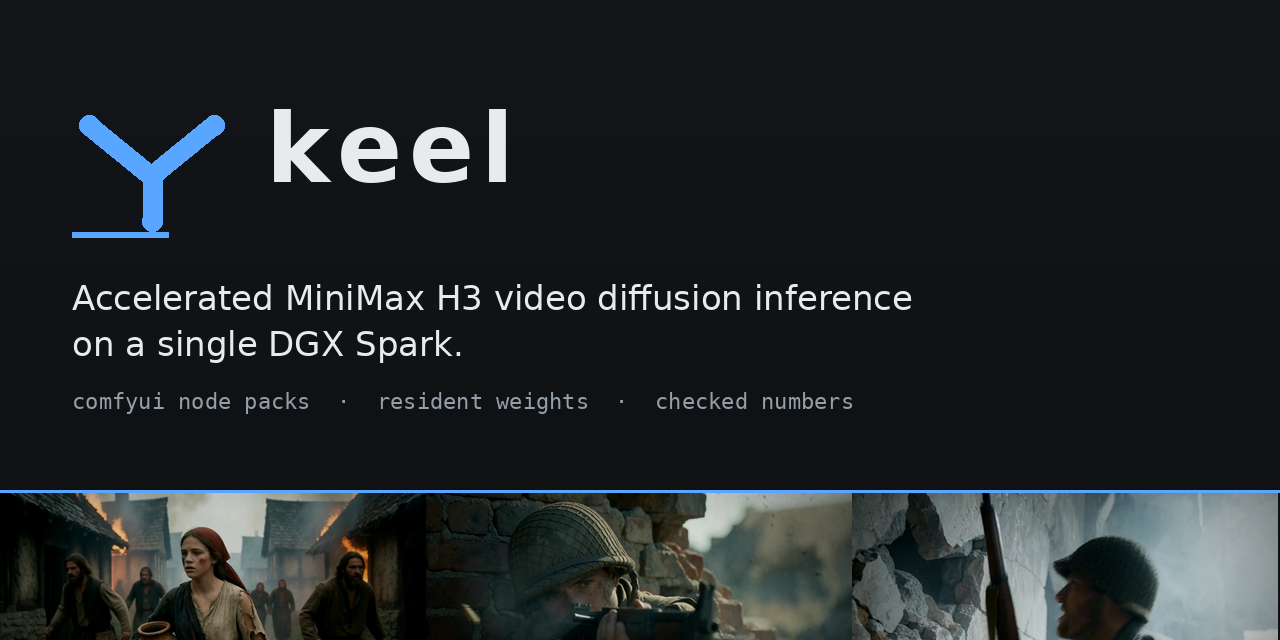
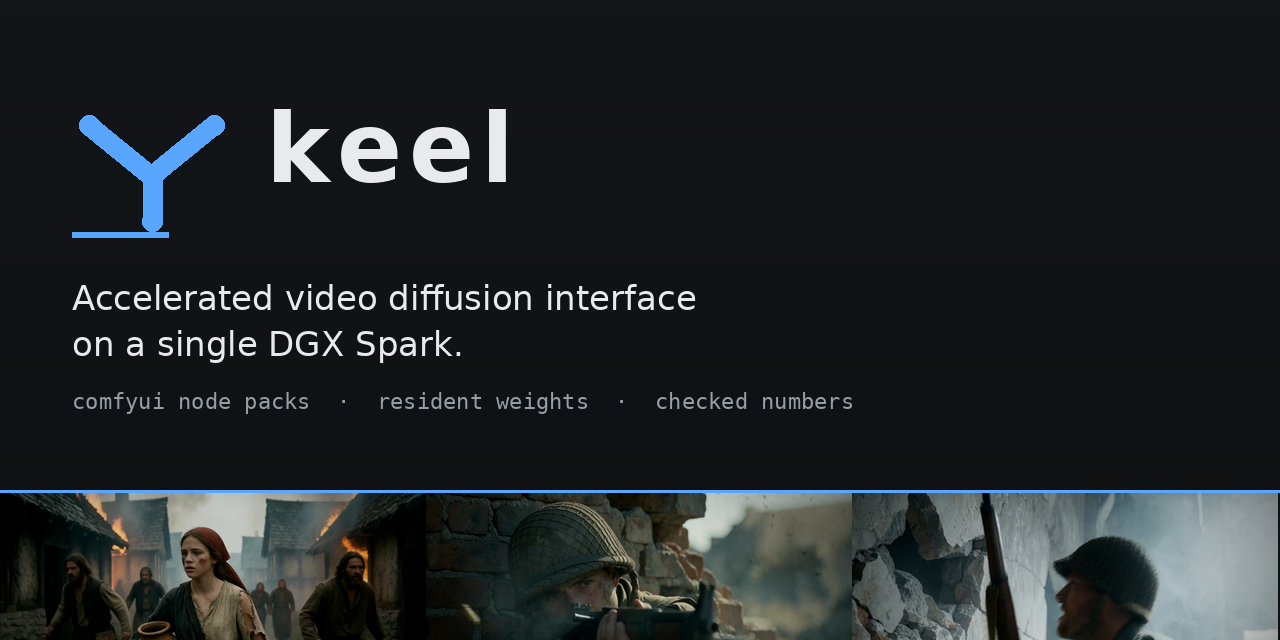
the headline names the capability, not one model
Accelerated video diffusion interface on a single DGX Spark. The engine
can host more models over time, so the headline says what the engine is
rather than which model it runs today. MiniMax H3 becomes the first
supported model: its coverage, benchmarks, techniques, clips and recipes
stay in the body, unchanged.

Applied to the README headline and description, the citation title, the
repository description, the release title and body, the demo title cards
and the social preview.

Two statements went with it, because the Gate 6.1 render made them
stale: the Sol-Attn kernel and the batched VAE decode are installed in
this stack and active in the shipped workflow, so running the published
1.54x ladder here is the next run rather than installing those two
components first.

Changed region(s): [[0.2188, 0.4375, 0.7188, 0.5]]

diff --git a/scripts/make_demo.py b/scripts/make_demo.py
@@ -261,9 +261,9 @@ def build_storyboard(assets: pathlib.Path) -> list[dict]:
             "hold": 7.0,
             "image": card(
                 "KEEL",
-                "Accelerated MiniMax H3 video diffusion inference on a single DGX Spark.",
+                "Accelerated video diffusion interface on a single DGX Spark.",
                 [
-                    ("An efficiency-oriented inference stack for MiniMax H3 —", MUTED),
+                    ("An efficiency-oriented inference stack for video diffusion —", MUTED),
                     ("installable ComfyUI node packs, a resident-weight recipe,", MUTED),
                     ("and a receipt behind every number.", MUTED),
                     ("", MUTED),
@@ -286,16 +286,17 @@ def build_storyboard(assets: pathlib.Path) -> list[dict]:
                 "A product, and what comes next",
                 [
                     ("is", GREEN),
-                    ("  a way to run MiniMax H3 - a 33B joint video-and-audio model - on one", INK),
-                    ("  128 GB DGX Spark, for people who want to render H3 themselves.", INK),
+                    ("  an interface for accelerated video diffusion on one 128 GB DGX Spark,", INK),
+                    ("  with MiniMax H3 - a 33B joint video-and-audio model - as the first", INK),
+                    ("  model it runs, for people who want to render it themselves.", INK),
                     ("", MUTED),
                     ("  the ComfyUI side of the problem NVIDIA's Sol-Engine solves, as an", INK),
                     ("  independent implementation: node packs, resident weights, the turbo", INK),
                     ("  adapter shelf, a seed-matched A/B, and receipts behind every number.", INK),
                     ("", MUTED),
                     ("next", AMBER),
-                    ("  the Sol-Attn kernel and the batched VAE decode come into this stack,", INK),
-                    ("  and the published 1.54x ladder gets a run and a receipt here.", INK),
+                    ("  the published 1.54x ladder gets a run and a receipt here, with the", INK),
+                    ("  Sol-Attn kernel and the batched VAE decode both active.", INK),
                 ],
                 "KEEL  ·  the named technique: TRIM",
                 accent=BLUE,
@@ -687,7 +688,7 @@ def build_storyboard(assets: pathlib.Path) -> list[dict]:
             "hold": 11.0,
             "image": card(
                 "KEEL",
-                "Accelerated MiniMax H3 video diffusion inference on a single DGX Spark.",
+                "Accelerated video diffusion interface on a single DGX Spark.",
                 [
                     ("the stack       three vendored node packs, credited to their authors", INK),
                     ("the technique   TRIM - residency, the convert path, step distillation,", INK),
@@ -696,7 +697,7 @@ def build_storyboard(assets: pathlib.Path) -> list[dict]:
                     ("", MUTED),
                     ("ours:          1.44x at 8 steps, 1.17x at 16 steps, 3.16x on the turbo LoRA", INK),
                     ("not ours:      the published ladder, and NVIDIA's 3.92x. Both say so.", AMBER),
-                    ("not done:      the ladder's own two components, never installed here.", AMBER),
+                    ("next:          the published 1.54x ladder, on this stack, both components active.", AMBER),
                 ],
                 "sandeep-alluru/minimax-h3-local-engine  ·  docs, recipes, receipts and clips",
                 accent=GREEN,

diff --git a/scripts/make_assets.py b/scripts/make_assets.py
@@ -44,7 +44,7 @@ SANS = "/usr/share/fonts/truetype/dejavu/DejaVuSans.ttf"
 MONO = "/usr/share/fonts/truetype/dejavu/DejaVuSansMono.ttf"
 
 WORDMARK = "keel"
-HEADLINE = "Accelerated MiniMax H3 video diffusion inference on a single DGX Spark."
+HEADLINE = "Accelerated video diffusion interface on a single DGX Spark."
 
 # The mark: a hull meeting a keel. Two swept strokes for the hull, one straight stroke for the
 # spine below the vertex. Drawn in a 120-unit box and scaled wherever it is placed.
@@ -190,7 +190,7 @@ def make_social_preview(path: pathlib.Path, strip: list[pathlib.Path] | None) ->
     head_f = font(SANS, 34)
     y = rule_y + 46
     for line in (
-        "Accelerated MiniMax H3 video diffusion inference",
+        "Accelerated video diffusion interface",
         "on a single DGX Spark.",
     ):
         draw.text((72, y), line, font=head_f, fill=PAPER)

diff --git a/README.md b/README.md
@@ -2,9 +2,9 @@
   <img src="assets/keel-logo.svg" width="420" alt="Keel" />
 </p>
 
-<p align="center"><b>Accelerated MiniMax H3 video diffusion inference on a single DGX Spark.</b></p>
+<p align="center"><b>Accelerated video diffusion interface on a single DGX Spark.</b></p>
 
-<p align="center">For people who render MiniMax H3 themselves on one 128 GB box: installable ComfyUI node packs, a weight set that fits in unified memory, and a receipt behind every number.</p>
+<p align="center">For people who run video diffusion on one 128 GB box: installable ComfyUI node packs, a weight set that fits in unified memory, and a receipt behind every number — with MiniMax H3 as the first model it runs.</p>
 
 <p align="center">
   <a href="docs/deployment-guide.md">Docs</a> ·
@@ -64,10 +64,11 @@ figures, the ComfyUI-Sol-H3 A/B, and the byte-exact residency ladder — is in
 
 ## What Keel is
 
-**Keel is** a way to run MiniMax H3 — a 33B joint video-and-audio diffusion model — on one 128 GB
-DGX Spark. It ships three installable ComfyUI node packs, the weight set that actually fits in
-unified memory, a seed-matched A/B method so you can measure the difference on your own box, and
-a checker that stops the build if a published number stops matching its receipt.
+**Keel is** an interface for accelerated video diffusion on one 128 GB DGX Spark. MiniMax H3 — a 33B
+joint video-and-audio diffusion model — is the first model it runs. It ships three installable
+ComfyUI node packs, the weight set that actually fits in unified memory, a seed-matched A/B method
+so you can measure the difference on your own box, and a checker that stops the build if a
+published number stops matching its receipt.
 
 Keel is the ComfyUI side of the same problem NVIDIA's Sol-Engine solves. Sol-Engine is their
 inference codebase with their own kernels, and `Sol-Attn` is their name for their method. Keel is
@@ -76,8 +77,9 @@ the step-distillation adapters, and the discipline around the numbers. The publi
 quoted above belongs to the community Sol-Engine port, and it is attributed wherever it appears.
 
 The largest first-party speedup below comes from the 4-step turbo LoRA: a step-count reduction as
-much as an acceleration. Bringing the Sol-Attn kernel and the batched VAE decode into this stack
-is the next run, and those two components are what the published 1.54× ladder depends on.
+much as an acceleration. The Sol-Attn kernel and the batched VAE decode are installed in this
+stack and active in the shipped workflow, and running the published 1.54× ladder here — with both
+of them in — is the next run.
 
 ---
 
@@ -103,6 +105,10 @@ is the next run, and those two components are what the published 1.54× ladder d
 ---
 
 ## Install
+
+This is the MiniMax H3 model coverage — the first model the interface runs. The node packs, the
+resident-weight recipe and the measurement method are the model's, so a second model is a weight
+set and a workflow away from the same stack.
 
 **Requirements**
 
@@ -197,8 +203,8 @@ when you want a draft and you keep twenty when you want the quality. And when yo
 
 ### What's next
 
-* **Install the Sol-Attn kernel and the batched VAE decode**, then run the published 1.54× ladder
-  on this stack and file the receipt beside theirs.
+* **Run the published 1.54× ladder on this stack**, with the Sol-Attn kernel and the batched VAE
+  decode active, and file the receipt beside theirs.
 * **Separate Sage attention from FirstBlockCache** inside the accelerated arms, so each technique
   in the table carries its own number rather than sharing one.
 * **Give Trim-INT8 its own timing**, so all six techniques have a measured effect.
@@ -367,8 +373,9 @@ Their respective upstream licences and attribution notices apply.
 
 ```bibtex
 @misc{keel,
-  title        = {Keel: accelerated MiniMax H3 video diffusion inference on a single DGX Spark},
+  title        = {Keel: accelerated video diffusion interface on a single DGX Spark},
   howpublished = {\url{https://github.com/sandeep-alluru/minimax-h3-local-engine}},
-  note         = {ComfyUI node packs, resident weight set, and receipt-backed measurements}
+  note         = {ComfyUI node packs, resident weight set, and receipt-backed measurements.
+                 MiniMax H3 is the first model it runs.}
 }
 ```

diff --git a/receipts/our-acceleration-ab.md b/receipts/our-acceleration-ab.md
@@ -57,9 +57,12 @@ sampling** at the shot's own geometry and seed.
 So the honest claim is "the acceleration arms as configured". The attribution between Sage and
 FirstBlockCache inside those arms is unresolved, and this receipt leaves it unresolved.
 
-**The Sol-Attn kernel was never installed on this box, and the batched VAE decode node was never
-enabled in any of these runs.** That is the single biggest difference between this table and the
-published ladder, which includes both.
+**The Sol-Attn kernel was not in place for any of these runs, and the batched VAE decode node was
+never enabled in them.** That is the single biggest difference between this table and the
+published ladder, which includes both. Both components ship in the stack now, and both are active
+in the shipped workflow — `receipts/fresh-clone-render.md` records a run with the Sol-Attn kernel
+serving a sparse tau-1.3 int8 TMA forward and the batched tile decode installed. The table below
+is the A/B as it was taken, and it is what the ladder has yet to be measured against.
 
 ## A correction, because the first version of this file was wrong
 
@@ -94,13 +97,13 @@ control at the same resolution and step count.
 These are not the same workload, so neither number validates the other. What the table does say
 is that **the acceleration arms as configured were worth between 1.17× and 1.44× on our own
 hardware**, which is more than the earlier draft of this repository claimed, and that the
-published 1.54× has still not been reproduced here because the two pieces it depends on — the
-Sol-Attn kernel and the batched VAE decode — were never installed in these runs.
+published 1.54× still has no run on this hardware behind it — the two pieces it depends on, the
+Sol-Attn kernel and the batched VAE decode, were out of these runs.
 
 ## What this receipt leaves out
 
 It never says the published ladder is wrong. It says our box, our configuration, our
 resolution, and our measurement produced 1.17×–1.44×, and that the ladder's extra 1.54× rests on
-two components we have yet to run.
+two components that were out of these runs.
 
 `RECIPE.md` is written for the run that would close that gap.
